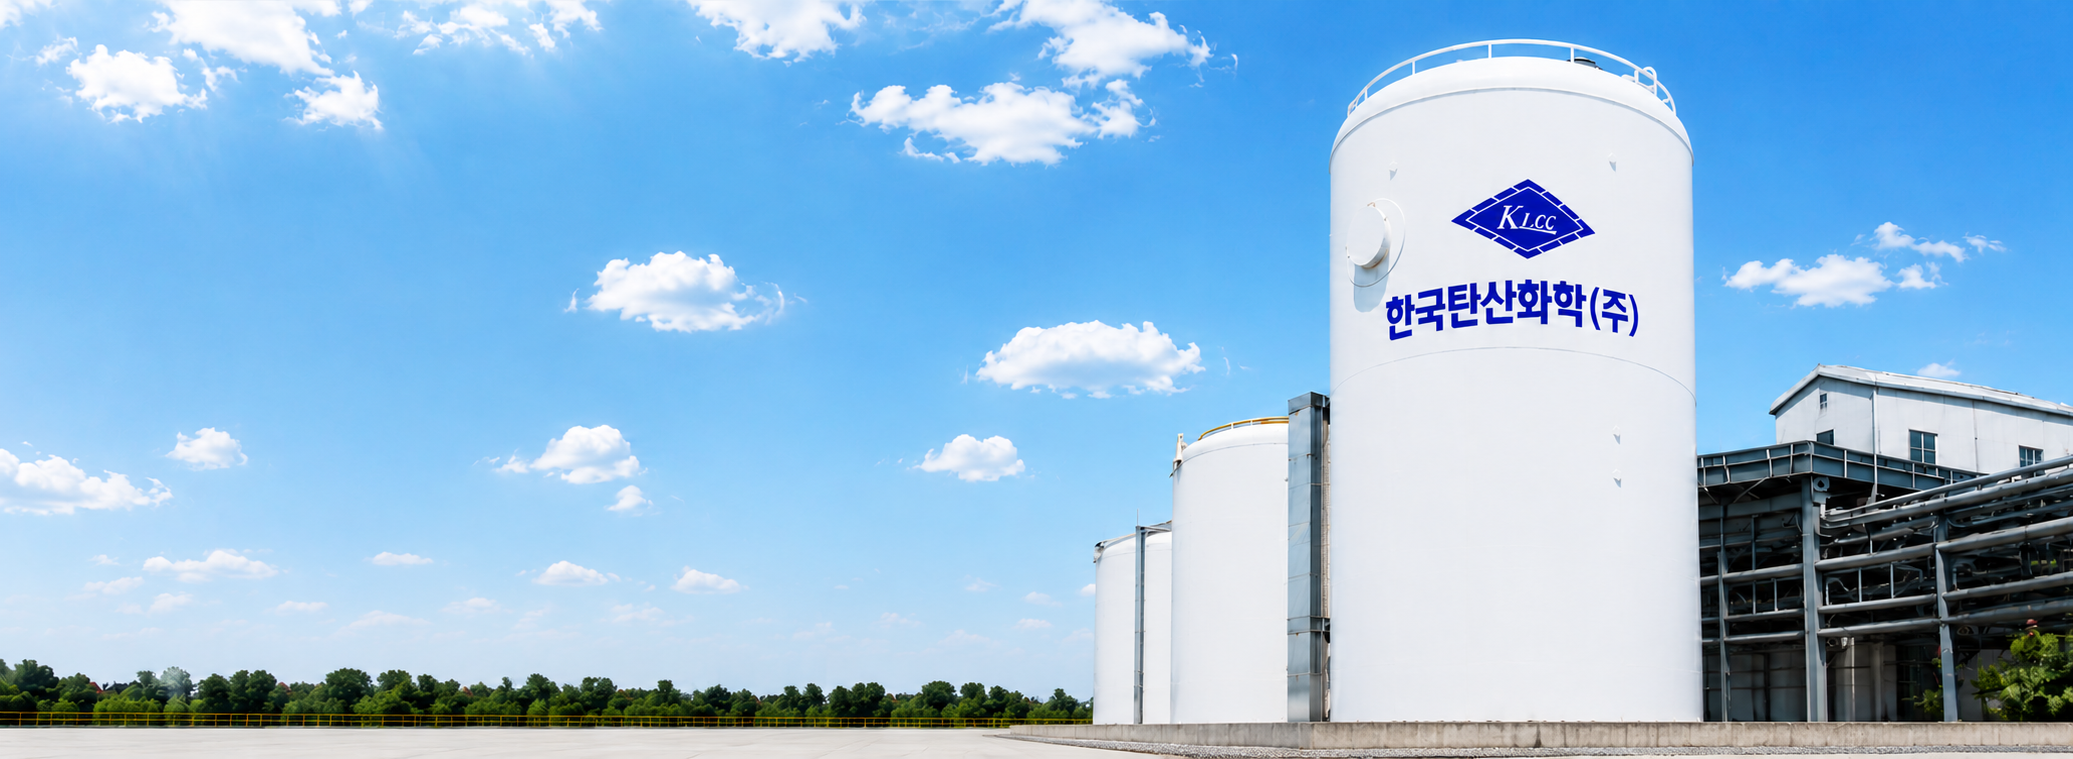
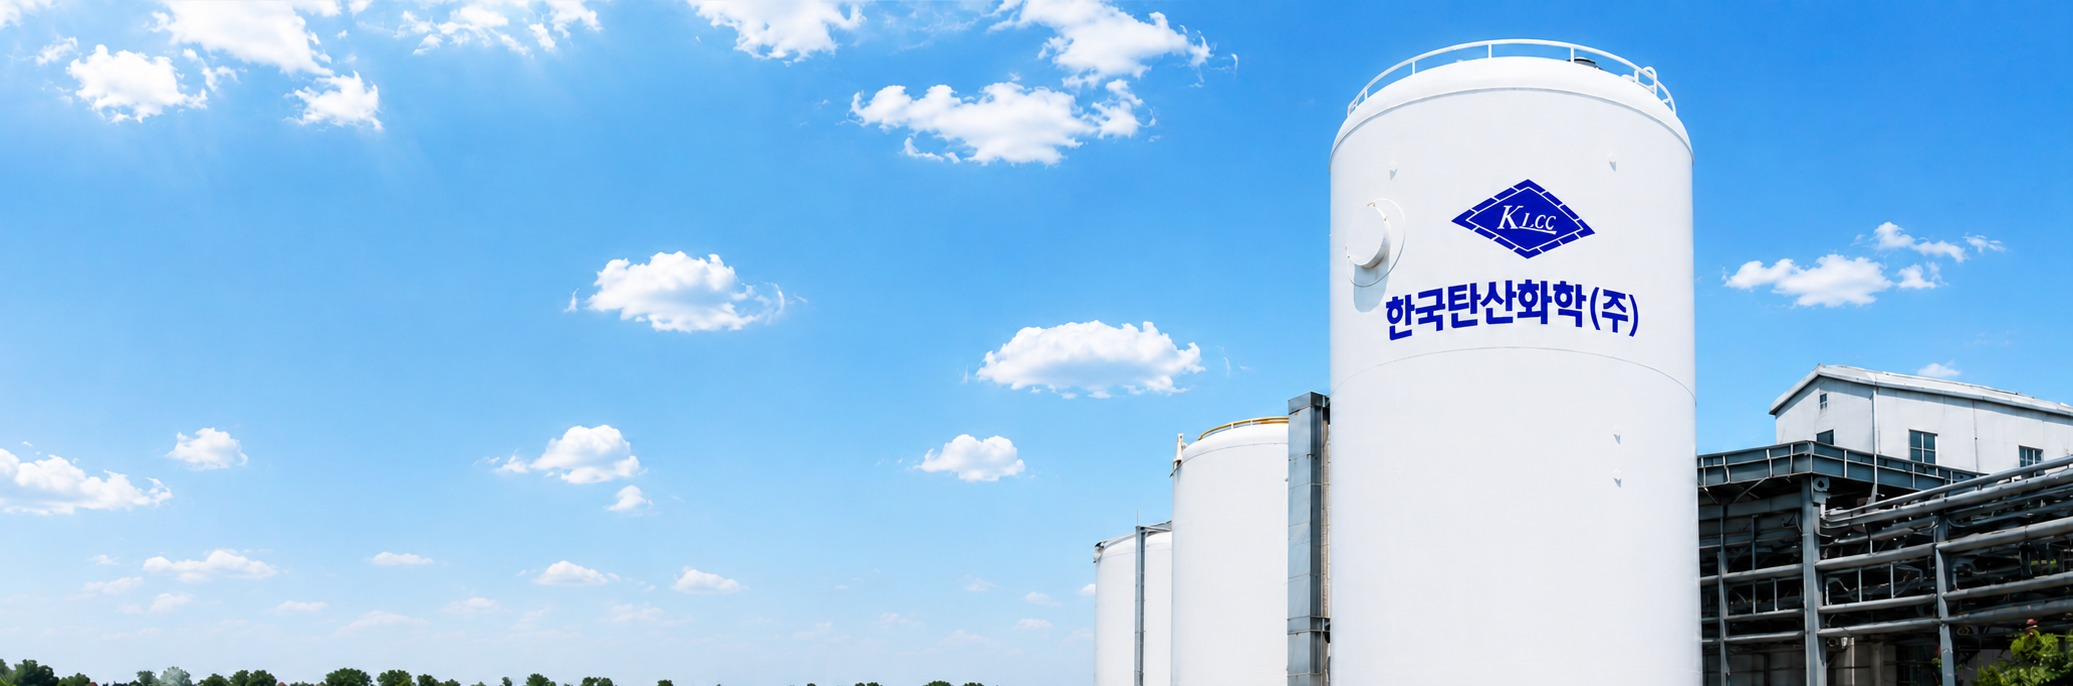
메인 히어로: 이미지 하단 도로·콘크리트 여백 크롭(2073x759→2073x686)해 카드 옆으로 삐져나오던 이미지 정리(레퍼런스 일치). 히어로 aspect-ratio 2073/686·min-height 460. hero-main.jpg ?v=20260801-4, style.css ?v=20260731-32

diff --git a/index.html b/index.html
@@ -7,7 +7,7 @@
   <meta name="description" content="한국탄산화학㈜(KLCC)는 산소·질소·아르곤·탄산·수소 등 산업용·의료용 가스와 드라이아이스를 제조·공급하는 전문기업입니다.">
   <link rel="stylesheet" href="assets/css/reset.css">
   <link rel="stylesheet" href="assets/css/variables.css?v=20260801">
-  <link rel="stylesheet" href="assets/css/style.css?v=20260731-31">
+  <link rel="stylesheet" href="assets/css/style.css?v=20260731-32">
 </head>
 <body>
 
@@ -83,7 +83,7 @@
     <!-- ===== 히어로 (실사진 배경) ===== -->
     <section class="hero">
       <div class="hero__slides" aria-hidden="true">
-        <div class="hero__slide is-active" style="background-image:url('assets/images/site/hero-main.jpg?v=20260801-3')"></div>
+        <div class="hero__slide is-active" style="background-image:url('assets/images/site/hero-main.jpg?v=20260801-4')"></div>
         <div class="hero__slide" style="background-image:url('assets/images/site/hero-molecules.jpg?v=20260703')"></div>
       </div>
       <div class="container">

diff --git a/company-overview.html b/company-overview.html
@@ -7,7 +7,7 @@
   <meta name="description" content="한국탄산화학㈜ 회사 개요와 조직도 — 상호·설립·사업분야·생산제품 및 조직 구성.">
   <link rel="stylesheet" href="assets/css/reset.css">
   <link rel="stylesheet" href="assets/css/variables.css?v=20260801">
-  <link rel="stylesheet" href="assets/css/style.css?v=20260731-31">
+  <link rel="stylesheet" href="assets/css/style.css?v=20260731-32">
   <!-- 대표이사 서명용 손글씨 폰트 (한글: Nanum Pen Script, 일어: Yomogi) -->
   <link rel="preconnect" href="https://fonts.googleapis.com">
   <link rel="preconnect" href="https://fonts.gstatic.com" crossorigin>

diff --git a/company-network.html b/company-network.html
@@ -7,7 +7,7 @@
   <meta name="description" content="한국탄산화학㈜ 계열사와 오시는 길 — 관계사 네트워크 및 사업장 위치·연락처.">
   <link rel="stylesheet" href="assets/css/reset.css">
   <link rel="stylesheet" href="assets/css/variables.css?v=20260801">
-  <link rel="stylesheet" href="assets/css/style.css?v=20260731-31">
+  <link rel="stylesheet" href="assets/css/style.css?v=20260731-32">
   <!-- 대표이사 서명용 손글씨 폰트 (한글: Nanum Pen Script, 일어: Yomogi) -->
   <link rel="preconnect" href="https://fonts.googleapis.com">
   <link rel="preconnect" href="https://fonts.gstatic.com" crossorigin>

diff --git a/assets/css/style.css b/assets/css/style.css
@@ -162,8 +162,8 @@ section[id] { scroll-margin-top: 88px; }
 .hero {
   position: relative; color: var(--hero-text); overflow: hidden;
   display: flex; align-items: center;
-  /* 배경 이미지(약 2.73:1)가 잘리지 않고 전부 보이도록 히어로 높이를 이미지 비율에 맞춤 */
-  aspect-ratio: 2073 / 759; min-height: 480px;
+  /* 배경 이미지(약 3.02:1, 하단 도로여백 크롭)가 잘리지 않고 전부 보이도록 히어로 높이를 이미지 비율에 맞춤 */
+  aspect-ratio: 2073 / 686; min-height: 460px;
   padding-block: clamp(24px, 4vw, 48px);
 }
 .hero > .container { width: 100%; }

diff --git a/company.html b/company.html
@@ -7,7 +7,7 @@
   <meta name="description" content="한국탄산화학㈜ 회사소개 — CEO 인사말, 연혁, 꾸준한 성장.">
   <link rel="stylesheet" href="assets/css/reset.css">
   <link rel="stylesheet" href="assets/css/variables.css?v=20260801">
-  <link rel="stylesheet" href="assets/css/style.css?v=20260731-31">
+  <link rel="stylesheet" href="assets/css/style.css?v=20260731-32">
   <!-- 대표이사 서명용 손글씨 폰트 (한글: Nanum Pen Script, 일어: Yomogi) -->
   <link rel="preconnect" href="https://fonts.googleapis.com">
   <link rel="preconnect" href="https://fonts.gstatic.com" crossorigin>

diff --git a/products-gas.html b/products-gas.html
@@ -7,7 +7,7 @@
   <meta name="description" content="산업용·의료용·혼합·특수·액화석유가스 — 고순도 산소·질소·아르곤·수소·헬륨·탄산·LPG를 Bulk·실린더로 공급·제조합니다.">
   <link rel="stylesheet" href="assets/css/reset.css">
   <link rel="stylesheet" href="assets/css/variables.css?v=20260801">
-  <link rel="stylesheet" href="assets/css/style.css?v=20260731-31">
+  <link rel="stylesheet" href="assets/css/style.css?v=20260731-32">
 </head>
 <body>
 

diff --git a/products-supply.html b/products-supply.html
@@ -7,7 +7,7 @@
   <meta name="description" content="고압가스 용기의 안전을 위한 자체 고압용기 검사장 운영 — 정기 재검사와 고압가스 안전관리 기준 준수.">
   <link rel="stylesheet" href="assets/css/reset.css">
   <link rel="stylesheet" href="assets/css/variables.css?v=20260801">
-  <link rel="stylesheet" href="assets/css/style.css?v=20260731-31">
+  <link rel="stylesheet" href="assets/css/style.css?v=20260731-32">
 </head>
 <body>
 

diff --git a/products-ice.html b/products-ice.html
@@ -7,7 +7,7 @@
   <meta name="description" content="드라이아이스 너겟·블록 생산설비 日産 150톤. 신선식품 택배 보냉용 필수재와 시장 전망을 소개합니다.">
   <link rel="stylesheet" href="assets/css/reset.css">
   <link rel="stylesheet" href="assets/css/variables.css?v=20260801">
-  <link rel="stylesheet" href="assets/css/style.css?v=20260731-31">
+  <link rel="stylesheet" href="assets/css/style.css?v=20260731-32">
 </head>
 <body>
 

diff --git a/products-construction.html b/products-construction.html
@@ -7,7 +7,7 @@
   <meta name="description" content="가스 저장탱크 설치부터 배관·공급설비 시공, 안전관리·검사까지 일괄 수행합니다.">
   <link rel="stylesheet" href="assets/css/reset.css">
   <link rel="stylesheet" href="assets/css/variables.css?v=20260801">
-  <link rel="stylesheet" href="assets/css/style.css?v=20260731-31">
+  <link rel="stylesheet" href="assets/css/style.css?v=20260731-32">
 </head>
 <body>
 

diff --git a/quality.html b/quality.html
@@ -7,7 +7,7 @@
   <meta name="description" content="고순도 제조 역량, 식품첨가물 탄산가스 품질, 용기검사장, Gas Service Team.">
   <link rel="stylesheet" href="assets/css/reset.css">
   <link rel="stylesheet" href="assets/css/variables.css?v=20260801">
-  <link rel="stylesheet" href="assets/css/style.css?v=20260731-31">
+  <link rel="stylesheet" href="assets/css/style.css?v=20260731-32">
 </head>
 <body>
 

diff --git a/support.html b/support.html
@@ -7,7 +7,7 @@
   <meta name="description" content="한국탄산화학 고객지원 — 사업장 연락처, 자주 묻는 질문.">
   <link rel="stylesheet" href="assets/css/reset.css">
   <link rel="stylesheet" href="assets/css/variables.css?v=20260801">
-  <link rel="stylesheet" href="assets/css/style.css?v=20260731-31">
+  <link rel="stylesheet" href="assets/css/style.css?v=20260731-32">
 </head>
 <body>
 
